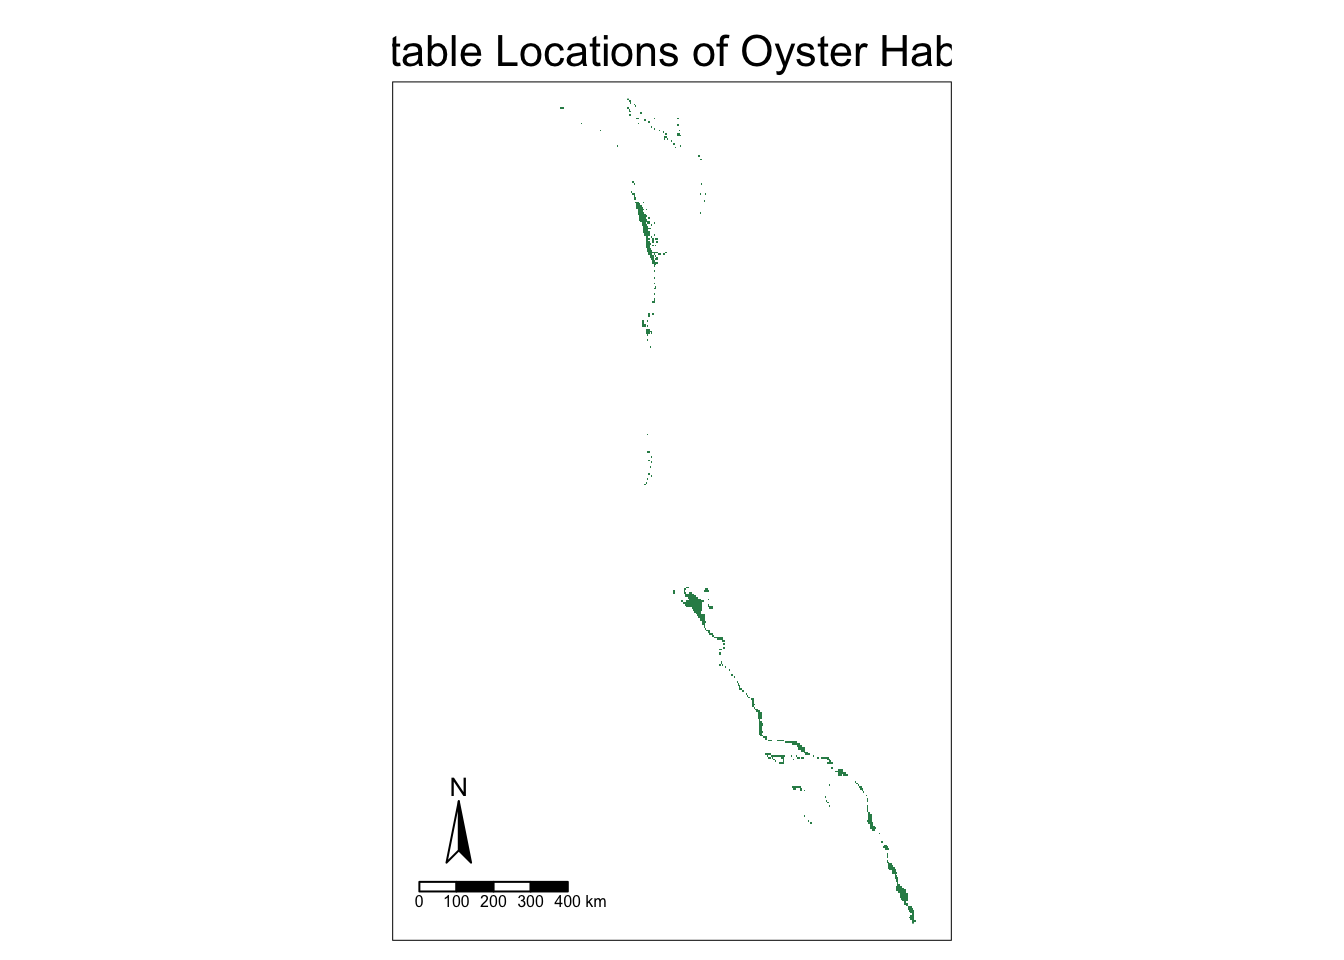
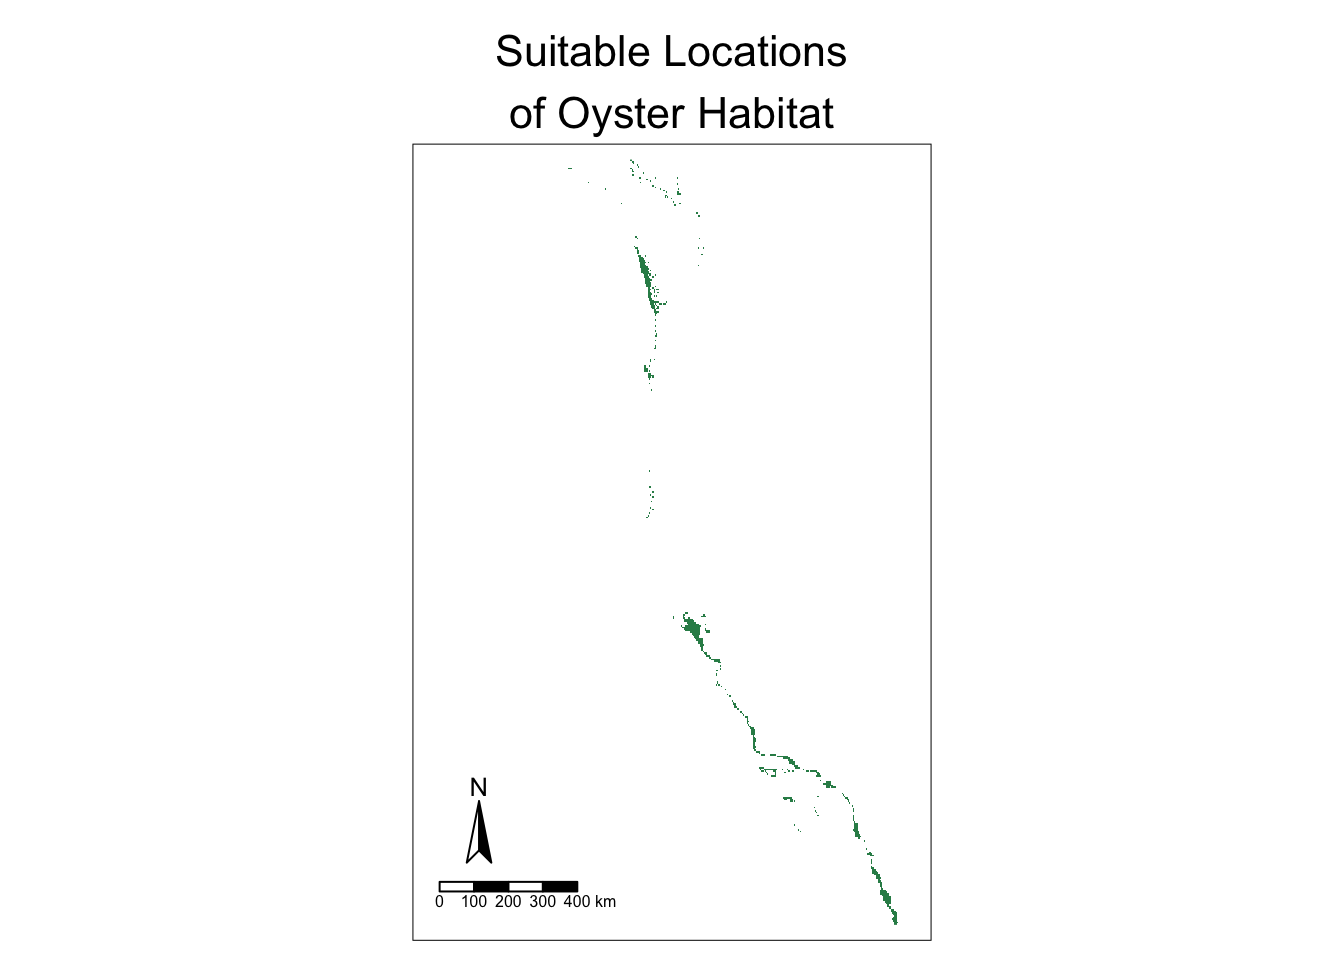
fix map title

diff --git a/eds223-hw4.html b/eds223-hw4.html
@@ -376,7 +376,7 @@ max values :     28.03372,   4218.00000 </code></pre>
 <span id="cb28-4"><a href="#cb28-4" aria-hidden="true" tabindex="-1"></a>             <span class="at">position =</span> <span class="fu">c</span>(<span class="st">"left"</span>, <span class="st">"bottom"</span>)) <span class="sc">+</span></span>
 <span id="cb28-5"><a href="#cb28-5" aria-hidden="true" tabindex="-1"></a>  <span class="fu">tm_scale_bar</span>(<span class="at">position =</span> <span class="fu">c</span>(<span class="st">"left"</span>, <span class="st">"bottom"</span>)) <span class="sc">+</span></span>
 <span id="cb28-6"><a href="#cb28-6" aria-hidden="true" tabindex="-1"></a>  <span class="fu">tm_layout</span>(<span class="at">legend.show =</span> <span class="cn">FALSE</span>,</span>
-<span id="cb28-7"><a href="#cb28-7" aria-hidden="true" tabindex="-1"></a>            <span class="at">main.title =</span> <span class="st">"Suitable Locations of Oyster Habitat"</span>,</span>
+<span id="cb28-7"><a href="#cb28-7" aria-hidden="true" tabindex="-1"></a>            <span class="at">main.title =</span> <span class="st">"Suitable Locations</span><span class="sc">\n</span><span class="st">of Oyster Habitat"</span>,</span>
 <span id="cb28-8"><a href="#cb28-8" aria-hidden="true" tabindex="-1"></a>            <span class="at">main.title.size =</span> <span class="fl">1.35</span>,</span>
 <span id="cb28-9"><a href="#cb28-9" aria-hidden="true" tabindex="-1"></a>            <span class="at">main.title.position =</span> <span class="fu">c</span>(<span class="st">"center"</span>, <span class="st">"top"</span>))</span></code><button title="Copy to Clipboard" class="code-copy-button"><i class="bi"></i></button></pre></div>
 <div class="cell-output-display">
@@ -466,6 +466,8 @@ max values :     28.03372,   4218.00000 </code></pre>
 </details>
 </div>
 <div class="cell">
+<details class="code-fold">
+<summary>Plot the data</summary>
 <div class="sourceCode cell-code" id="cb32"><pre class="sourceCode r code-with-copy"><code class="sourceCode r"><span id="cb32-1"><a href="#cb32-1" aria-hidden="true" tabindex="-1"></a><span class="fu">tm_shape</span>(bath) <span class="sc">+</span></span>
 <span id="cb32-2"><a href="#cb32-2" aria-hidden="true" tabindex="-1"></a>  <span class="fu">tm_raster</span>(<span class="at">palette =</span> <span class="st">"-RdBu"</span>,</span>
 <span id="cb32-3"><a href="#cb32-3" aria-hidden="true" tabindex="-1"></a>            <span class="at">title =</span> <span class="st">"Bathymetry</span><span class="sc">\n</span><span class="st">(m above and below sea level)"</span>,</span>
@@ -488,6 +490,7 @@ max values :     28.03372,   4218.00000 </code></pre>
 <span id="cb32-20"><a href="#cb32-20" aria-hidden="true" tabindex="-1"></a>            <span class="at">main.title =</span> <span class="st">"Oyster Suitable Habitat in</span><span class="sc">\n</span><span class="st">West Coast Exclusive Economic Zones"</span>,</span>
 <span id="cb32-21"><a href="#cb32-21" aria-hidden="true" tabindex="-1"></a>            <span class="at">main.title.size =</span> <span class="fl">1.35</span>,</span>
 <span id="cb32-22"><a href="#cb32-22" aria-hidden="true" tabindex="-1"></a>            <span class="at">main.title.position =</span> <span class="fu">c</span>(<span class="st">"center"</span>, <span class="st">"top"</span>))</span></code><button title="Copy to Clipboard" class="code-copy-button"><i class="bi"></i></button></pre></div>
+</details>
 <div class="cell-output-display">
 <div>
 <figure class="figure">
